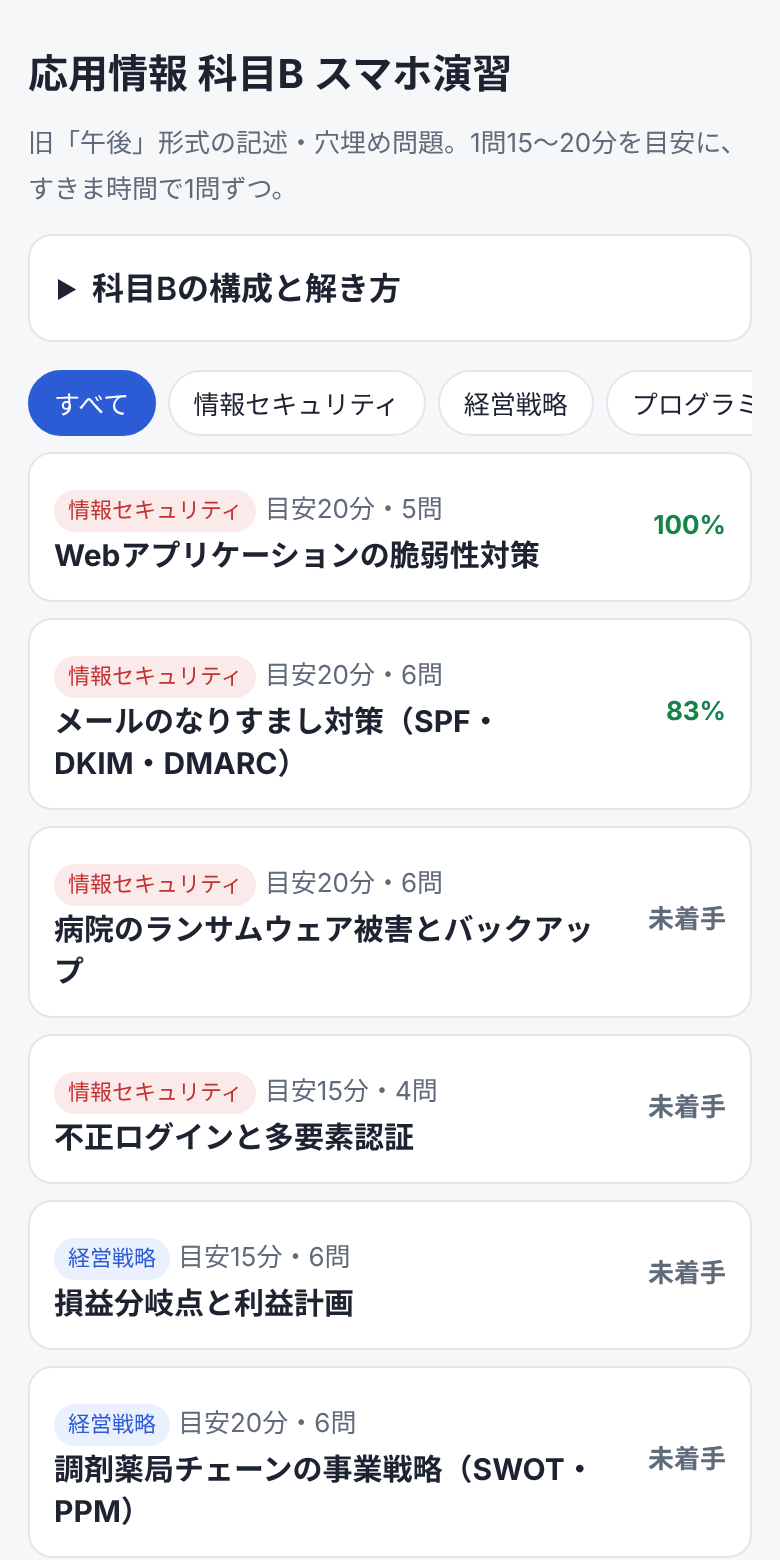
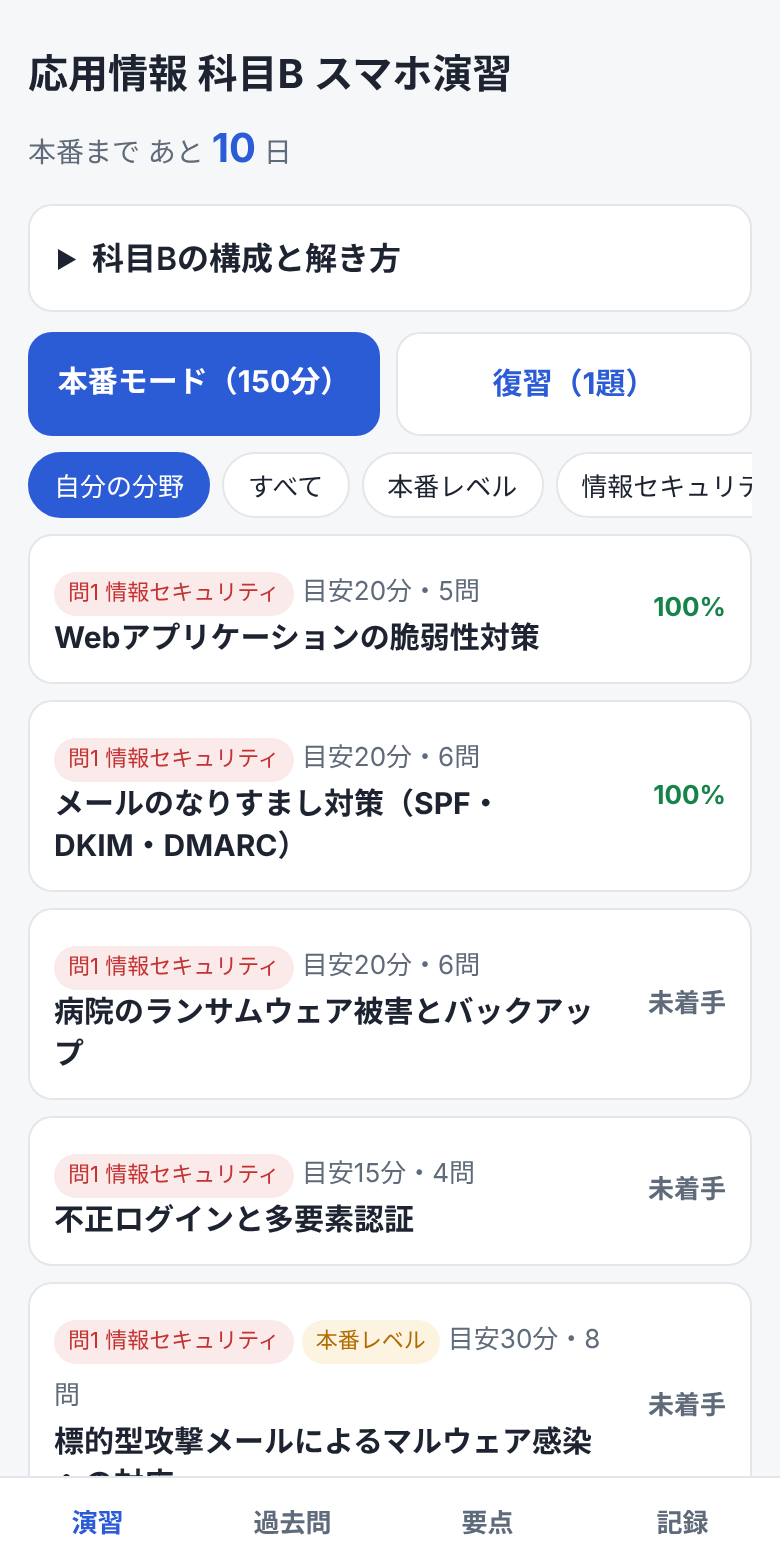
README とスクリーンショットを更新

diff --git a/README.md b/README.md
@@ -2,56 +2,57 @@
 
 [![CI](https://github.com/haru-ki417/ap-b-app/actions/workflows/ci.yml/badge.svg)](https://github.com/haru-ki417/ap-b-app/actions/workflows/ci.yml)
 
-**応用情報技術者試験の科目B（旧「午後」）を、スマホのすきま時間で。記述・穴埋め形式のオリジナル問題 25 題（解答欄 137 個）を全 11 分野そろえ、問題・解答用紙・解説のタブで解けるオフライン対応の Web アプリ（PWA）。**
-ホーム画面に追加すればアプリとして起動し、電波のない場所でも使えます。解答と成績はスマホの中だけに保存され、外には送りません。
+**応用情報技術者試験の科目B（旧「午後」）対策を、スマホ1台で。オリジナル問題 43 題（うち本番と同じ長さの「本番レベル」18 題、解答欄 258 個）、IPA の午後過去問 11 回分の記録、要点カード 120 枚、150 分の本番モードをまとめたオフライン対応の Web アプリ（PWA）。**
+ホーム画面に追加すればアプリとして起動し、電波のない場所でも使えます。解答と記録はスマホの中だけに保存され、外には送りません。
 
 [**アプリを開く**](https://haru-ki417.github.io/ap-b-app/) — iPhone は Safari の共有ボタン →「ホーム画面に追加」で、アプリとして使えます。
 
 <p>
-<img src="docs/images/home-light.png" width="24%" alt="一覧：分野ごとの問題と得点">
-<img src="docs/images/problem.png" width="24%" alt="問題：擬似言語のプログラム">
-<img src="docs/images/sheet.png" width="24%" alt="解答用紙：採点と記述の自己採点">
-<img src="docs/images/explanation.png" width="24%" alt="解説">
+<img src="docs/images/home-light.png" width="19%" alt="演習：本番までの日数と問題の一覧">
+<img src="docs/images/problem.png" width="19%" alt="問題：擬似言語のプログラム">
+<img src="docs/images/sheet.png" width="19%" alt="解答用紙：採点と記述の自己採点">
+<img src="docs/images/past.png" width="19%" alt="過去問：IPAの午後問題の記録">
+<img src="docs/images/cards.png" width="19%" alt="要点カード">
 </p>
 
-左から、一覧（分野ごとの得点）・問題・採点後の解答用紙・解説。
+左から、演習（本番までの日数と問題の一覧）・問題・採点後の解答用紙・IPA 過去問の記録・要点カード。
 
-> 個人の学習用に作ったアプリです。問題はすべてオリジナルで、IPA（情報処理推進機構）とは関係ありません。本番の問題は文章がもっと長いので、IPA が公開している過去の午後問題とあわせて使ってください。
+> 個人の学習用に作ったアプリです。アプリ内の問題はすべてオリジナルで、IPA（情報処理推進機構）とは関係ありません。過去問タブは IPA が公開している問題冊子・解答例・採点講評へのリンクです（出典：IPA「問題冊子・配点割合・解答例・採点講評」）。
 
 ## できること
 
+アプリは「演習」「過去問」「要点」「記録」の 4 つのタブでできています。
+
 | | |
 |---|---|
-| **問題** | 科目B と同じ「本文＋設問」の形。解答群から選ぶ・数値を答える・字数制限つきで記述する、の 3 種類の解答欄がある |
-| **解答用紙** | 問題文とは別のタブ。どの問題でも同じ形（通し番号・設問・解答欄）で、本番の解答用紙のように使える |
-| **字数カウント** | 記述欄に入力すると字数が出て、上限を超えると赤くなる |
-| **採点** | 選択と数値は自動で採点（全角数字や「10回」のような単位つきでも正解になる）。記述は解答例とキーワードを見て ○・△・× を付ける |
-| **解説** | 採点すると解説が開く。トレース表・計算の途中・記述のコツつき |
-| **タイマー** | 問題を開いてからの経過時間と、目安時間を表示 |
-| **成績** | 問題ごとの得点を一覧に表示。分野で絞り込める |
-| **オフライン** | 一度開けば、機内モードでも起動して解ける |
-| **ダークモード** | スマホの設定に合わせて切り替わる |
-
-<img src="docs/images/home-dark.png" width="24%" alt="ダークモード">
+| **演習** | オリジナル問題を解く。科目B と同じ「本文＋設問」の形で、解答群から選ぶ・数値を答える・字数制限つきで記述する、の 3 種類の解答欄がある。本番レベル（1 問 25〜30 分）と短い問題（15〜20 分）があり、「自分の分野」「本番レベル」「分野別」で絞り込める |
+| **解答用紙** | 問題文とは別のタブ。どの問題でも同じ形（通し番号・設問・解答欄）。記述欄は字数を数え、上限を超えると赤くなる |
+| **採点と解説** | 選択と数値は自動で採点（全角数字や「10回」のような単位つきでも正解になる）。記述は解答例とキーワードを見て ○・△・× を付ける。採点すると、トレース表・計算の途中・記述のコツつきの解説が開く |
+| **復習** | ×・△・自己採点待ちの設問がある問題だけを一覧にする |
+| **本番モード** | 問1（情報セキュリティ）と、選んだ 4 分野から 1 題ずつ、計 5 題を 150 分で解く。未着手の本番レベルの問題を優先して選び、終わると点数（60 点が合格ライン）と所要時間を記録する |
+| **過去問** | IPA が公開している午後の過去問（令和 2〜7 年度の 11 回分）の問題冊子・解答例・採点講評を開ける。問ごとに正解した割合とメモを記録し、分野ごとの解いた回数が分かる |
+| **要点カード** | 記述の書き方と、分野ごとの頻出知識（記述でそのまま使える言い回し）。タップで答えが出て、「覚えた」で外せる |
+| **記録** | 本番の日（演習タブに残り日数を表示）と本番で選ぶ分野の設定。分野ごとに、演習・過去問の平均と覚えたカードの数を並べ、弱い分野が分かる |
+| **オフライン・ダークモード** | 一度開けば機内モードでも使える（過去問の PDF はネット接続が必要）。スマホの設定に合わせてダークモードになる |
 
 ## 分野と問題
 
-科目B は 150 分で、問1（情報セキュリティ）が必須、問2〜11 から 4 問を選んで解きます。必須の情報セキュリティを多めにして、選択問題の 10 分野すべてを入れています。一覧は本番の問番号の順に並びます。
+科目B は 150 分で、問1（情報セキュリティ）が必須、問2〜11 から 4 問を選んで解きます。全 11 分野の問題があり、本番で選ぶ人の多い分野には本番レベルの問題を入れています。
 
-| 分野 | 題数 | 問題 |
-|---|---:|---|
-| 問1 情報セキュリティ（必須） | 4 | Web アプリの脆弱性（SQL インジェクション・XSS・CSRF）／メールのなりすまし対策（SPF・DKIM・DMARC）／病院のランサムウェア被害とバックアップ／不正ログインと多要素認証 |
-| 問2 経営戦略 | 2 | 損益分岐点と利益計画（安全余裕率・営業レバレッジ）／調剤薬局チェーンの事業戦略（SWOT・クロスSWOT・PPM） |
-| 問3 プログラミング | 3 | 二分探索のトレース／ハッシュ表（オープンアドレス法）／動的計画法（硬貨の最小枚数と貪欲法） |
-| 問6 データベース | 3 | 診療予約表の正規化／SQL の集計と外部結合（HAVING・COUNT と NULL）／排他制御とデッドロック |
-| 問4 システムアーキテクチャ | 2 | Web システムの性能見積り（必要台数・N＋1・M/M/1）／勤怠システムのクラウド移行（オートスケーリング・セッション共有・同期レプリケーション・責任共有モデル） |
-| 問5 ネットワーク | 2 | サブネット設計（VLSM）／DNS の運用（TTL・オープンリゾルバ）と NAPT |
-| 問7 組込みシステム | 2 | 腕時計型脈拍計（A/D 変換・サンプリング定理・平均消費電流）／転倒検知装置の状態遷移 |
-| 問8 情報システム開発 | 2 | 送料計算機能のテスト設計（同値分割・境界値分析・分岐網羅）／スクラムによるアジャイル開発（ベロシティ・役割とイベント・CI・TDD） |
-| 問9 プロジェクトマネジメント | 2 | EVM（SV・CV・CPI・SPI・EAC）／クリティカルパスと日程短縮 |
-| 問10 サービスマネジメント | 1 | SLA と稼働率（直列・並列・MTBF/MTTR）、インシデント管理と問題管理 |
-| 問11 システム監査 | 2 | 電子カルテのアクセス管理の監査（ID の棚卸し・緊急閲覧・独立性）／販売管理システムの内部統制（IT 全般統制と業務処理統制・職務分離・運用状況の評価） |
-| **合計** | **25** | 解答欄 137 個（選択 53・数値 58・記述 26） |
+| 分野 | 短い問題 | 本番レベル | 本番レベルの題材 | 要点カード |
+|---|---:|---:|---|---:|
+| 問1 情報セキュリティ（必須） | 4 | 3 | 標的型攻撃メールによる感染とインシデント対応／クラウドストレージの共有設定とアカウント管理／会員サイトのセッション管理とパスワードの保護 | 21 |
+| 問2 経営戦略 | 2 | — | | — |
+| 問3 プログラミング | 3 | 3 | 最小ヒープ／ダイクストラ法／スタックによる逆ポーランド記法 | 14 |
+| 問4 システムアーキテクチャ | 2 | 2 | バッチの処理時間と並列化（ボトルネック・アムダールの法則・仮想化）／可用性とバックアップ（RPO・RTO・RAID） | 12 |
+| 問5 ネットワーク | 2 | 2 | VRRP・DHCP リレー・IPsec VPN／負荷分散装置・ヘルスチェック・TLS 終端・証明書 | 15 |
+| 問6 データベース | 3 | 2 | 図書館の貸出管理（関係スキーマ・NULL・NOT EXISTS・HAVING）／トランザクションと障害回復 | 14 |
+| 問7 組込みシステム | 2 | 2 | 温湿度ロガーのタスク設計・排他制御／ロボット掃除機の状態遷移・PWM・エンコーダ | 11 |
+| 問8 情報システム開発 | 2 | 2 | 会議室予約のクラス図と重複判定／結合テストの品質評価 | 13 |
+| 問9 プロジェクトマネジメント | 2 | — | | — |
+| 問10 サービスマネジメント | 1 | — | | — |
+| 問11 システム監査 | 2 | 2 | 開発プロジェクトの監査／クラウドサービスへの業務委託の監査 | 11 |
+| **合計** | **25** | **18** | 解答欄 258 個（選択 112・数値 94・記述 52） | **120**（記述の書き方 9 を含む） |
 
 プログラムは IPA の擬似言語の書き方にそろえています。
 
@@ -68,18 +69,21 @@
 
 | ファイル | 内容 |
 |---|---|
-| [`index.html`](index.html) | 画面の骨組み（一覧と、問題・解答用紙・解説のタブ） |
+| [`index.html`](index.html) | 画面の骨組み（4 つのタブと、問題・解答用紙・解説の画面） |
 | [`css/style.css`](css/style.css) | スマホ向けの見た目。ライト・ダーク、ノッチの余白（safe-area）に対応 |
-| [`js/problems.js`](js/problems.js) | 分野と問題のデータ（本文・解答欄・正解・解答例・キーワード・解説） |
-| [`js/app.js`](js/app.js) | 一覧・解答用紙・採点・成績の保存・画面の切り替え |
+| [`js/problems.js`](js/problems.js) | 分野と短い問題のデータ（本文・解答欄・正解・解答例・キーワード・解説） |
+| [`js/problems-full.js`](js/problems-full.js) | 本番レベルの問題のデータ |
+| [`js/past.js`](js/past.js) | IPA の午後過去問の一覧と PDF の URL |
+| [`js/cards.js`](js/cards.js) | 要点カード |
+| [`js/app.js`](js/app.js) | 演習・解答用紙・採点・復習・本番モード・過去問の記録・要点カード・記録の画面 |
 | [`sw.js`](sw.js) | オフライン用のサービスワーカー |
 | [`manifest.webmanifest`](manifest.webmanifest) | ホーム画面に追加したときの名前・アイコン・色 |
 
 - **解答用紙が共通の形**: 解答欄はデータ（`items`）から作るので、問題を増やしても同じ解答用紙で解けます。
 - **数値の採点**: 入力を正規化（全角→半角、マイナス記号、単位・空白の除去）してから正解の候補と比べます。
-- **URL**: 問題ごとに `#p1` のような URL になるので、解きかけの問題をブックマークできます。
+- **URL**: 問題ごとに `#p1` のような URL になるので、解きかけの問題をブックマークできます。タブも `#past` `#cards` `#record` で開けます。
 - **オフライン**: 初回にアプリ一式を端末に保存します。次からは保存した版をすぐ表示し、つながっていれば裏で最新版を取りに行きます（更新は次に開いたときに反映）。
-- **成績の保存**: 端末の `localStorage` だけに置きます。サーバーはなく、外部への通信もしません。
+- **記録の保存**: 解答・過去問の点数・覚えたカード・設定は、端末の `localStorage` だけに置きます。サーバーはなく、過去問の PDF を開くとき以外は外部と通信しません。
 
 ## テスト
 
@@ -91,14 +95,14 @@ python3 tests/smoke.py        # スマホ幅のブラウザーで動かす
 
 | テスト | 確かめること |
 |---|---|
-| [`tests/check.mjs`](tests/check.mjs) | 問題データの形（id・解答欄の記号・解答群の差し込み・正解の番号・解答例が字数内か・解答例にキーワードが入っているか）／**計算・トレースの問題は、問題文どおりの処理（二分探索・ハッシュ表・動的計画法・サブネットの割当て・損益分岐点・待ち行列・境界値と分岐網羅・EVM・クリティカルパス・稼働率など）をテストの中でもう一度計算し、正解と一致するか**／オフライン用に保存するファイルがそろっているか |
-| [`tests/smoke.py`](tests/smoke.py) | スマホ幅のブラウザーで、分野の絞り込み・解答群の表示・字数カウントと字数オーバー・自動採点・自己採点・解説・全角や単位つきの数値・成績の保存・通信を切っての起動 |
+| [`tests/check.mjs`](tests/check.mjs) | 問題データの形（id・解答欄の記号・解答群の差し込み・正解の番号・解答例が字数内か・解答例にキーワードが入っているか）／過去問の URL の形・要点カードの重複／**計算・トレースの問題は、問題文どおりの処理をテストの中でもう一度計算し、正解と一致するか**（二分探索・ハッシュ表・動的計画法・ヒープ・ダイクストラ法・逆ポーランド記法と中置→後置の変換・サブネット・損益分岐点・待ち行列・並列化とアムダールの法則・稼働率と RAID・障害回復の要否・境界値と分岐網羅・時間帯の重なり判定の総当たり・テスト密度と欠陥密度・EVM・クリティカルパスなど）／オフライン用に保存するファイルがそろっているか |
+| [`tests/smoke.py`](tests/smoke.py) | スマホ幅のブラウザーで、分野の絞り込み・解答群の表示・字数カウントと字数オーバー・自動採点・自己採点・解説・全角や単位つきの数値・成績の保存・選ぶ分野と本番の日の設定・過去問の点数の記録・要点カード・本番モード・通信を切っての起動 |
 
 push のたびに GitHub Actions で両方を回します。
 
 ## 問題を追加する
 
-[`js/problems.js`](js/problems.js) の `PROBLEMS` に 1 題足します。本文の空欄は `〔a〕`、解答群を出したい場所には `{{g:a}}` と書きます。
+[`js/problems.js`](js/problems.js)（本番レベルなら [`js/problems-full.js`](js/problems-full.js) に `level: 'full'` を付けて）の `PROBLEMS` に 1 題足します。本文の空欄は `〔a〕`、解答群を出したい場所には `{{g:a}}` と書きます。
 
 ```js
 {
